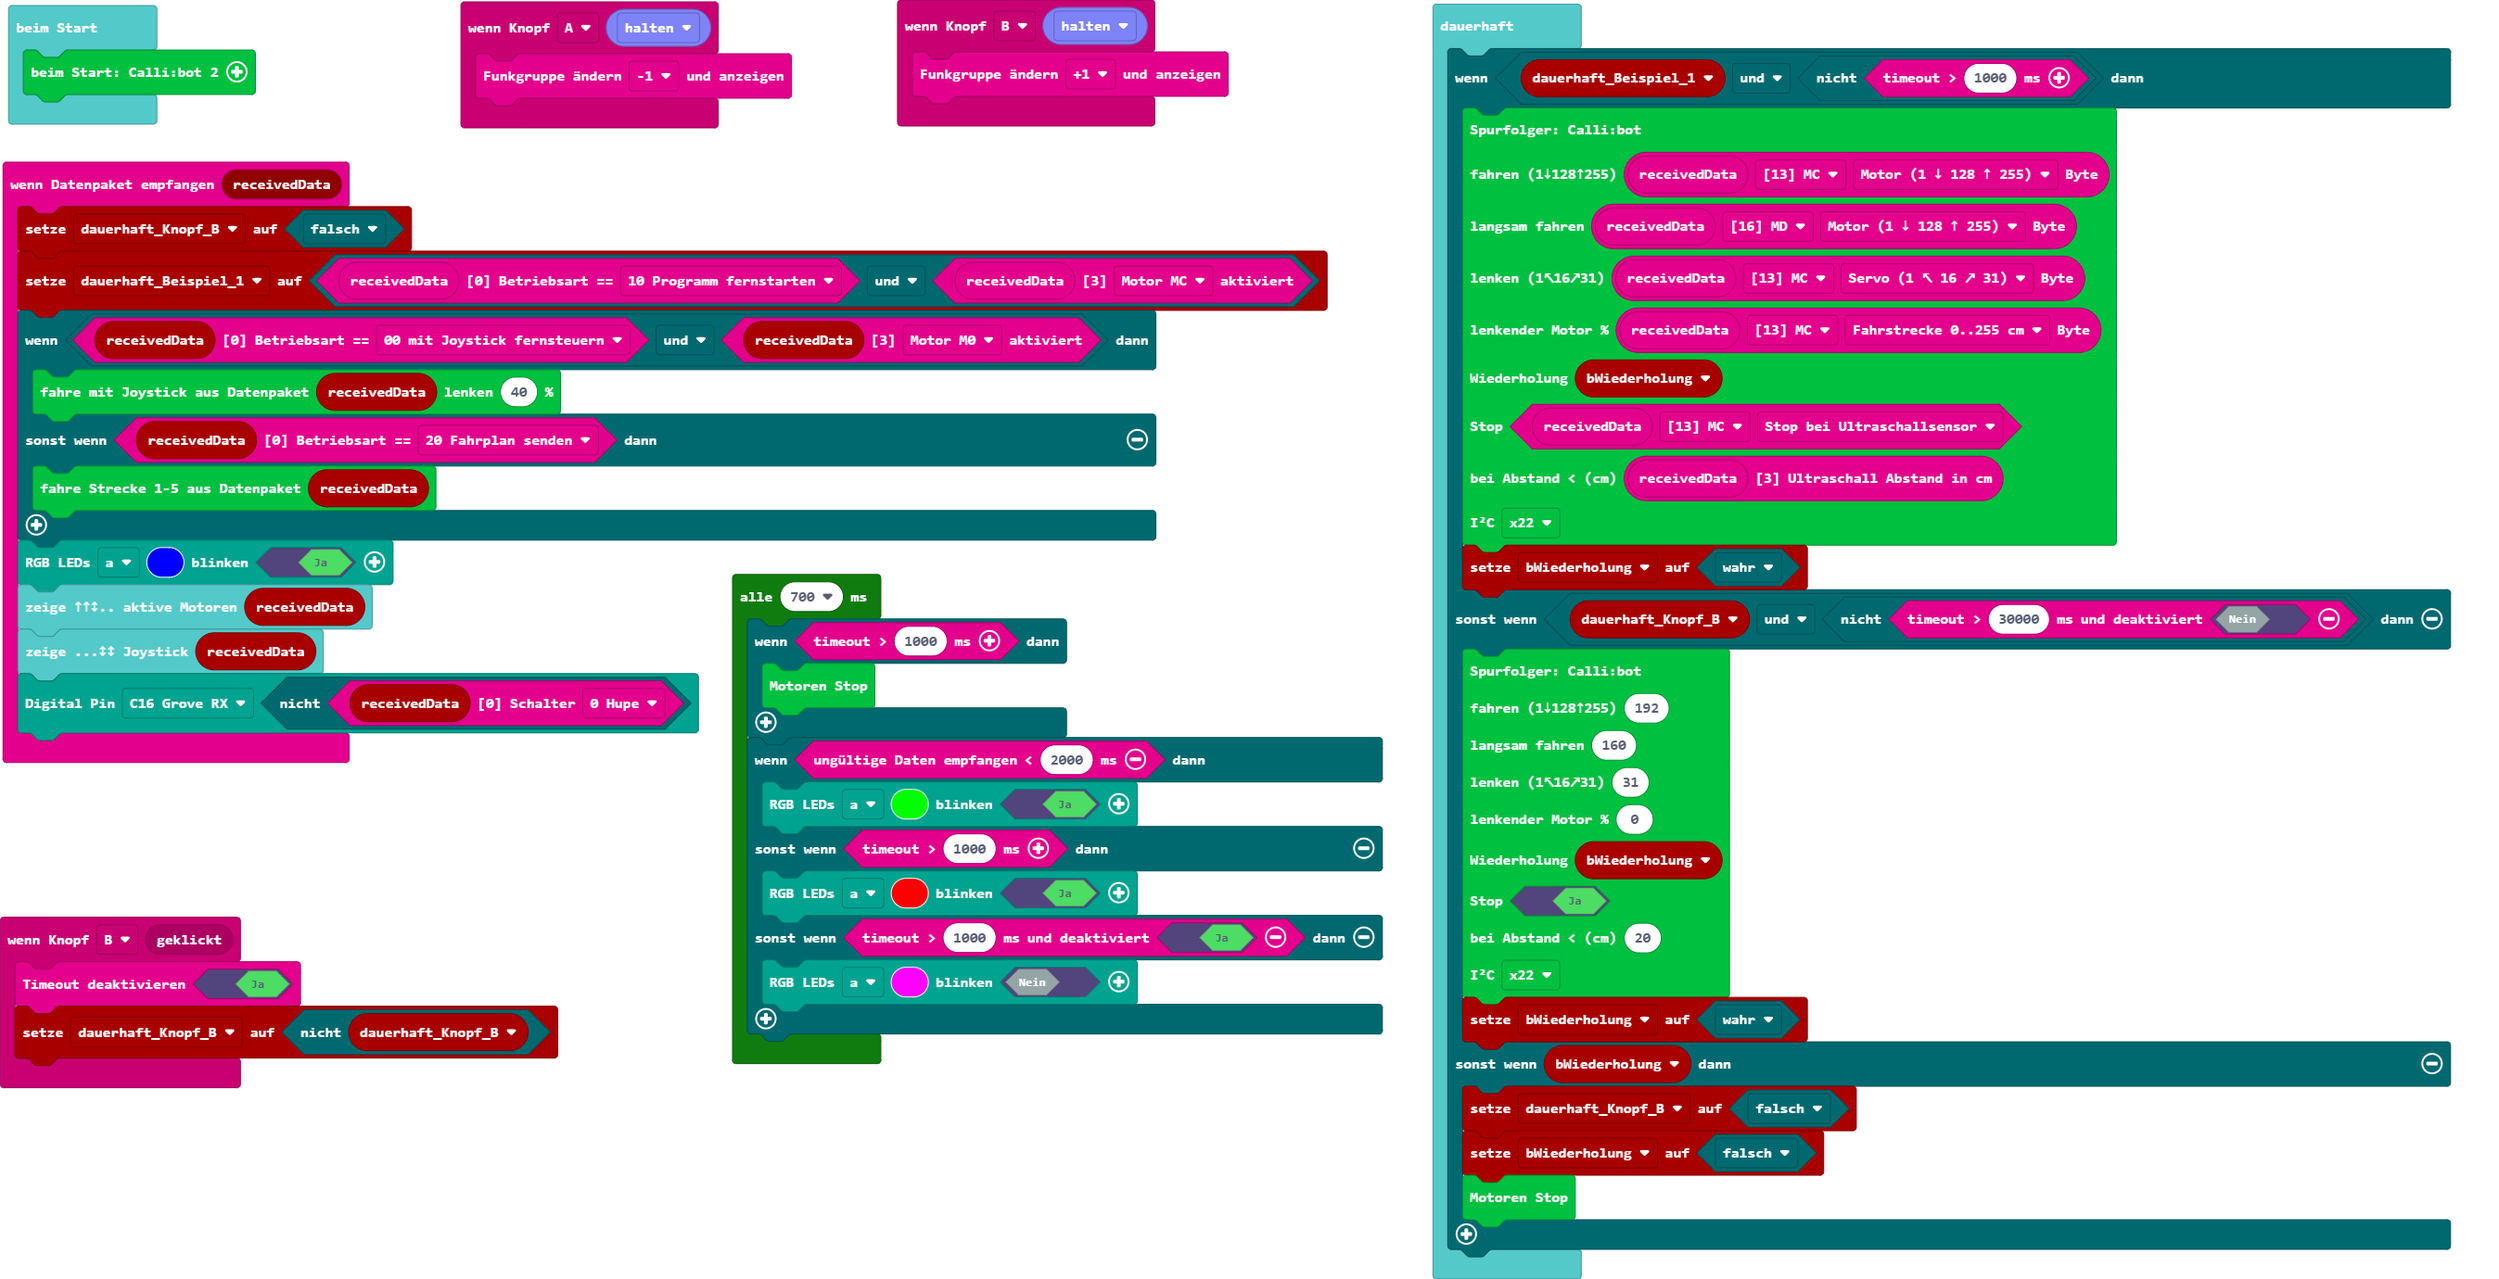
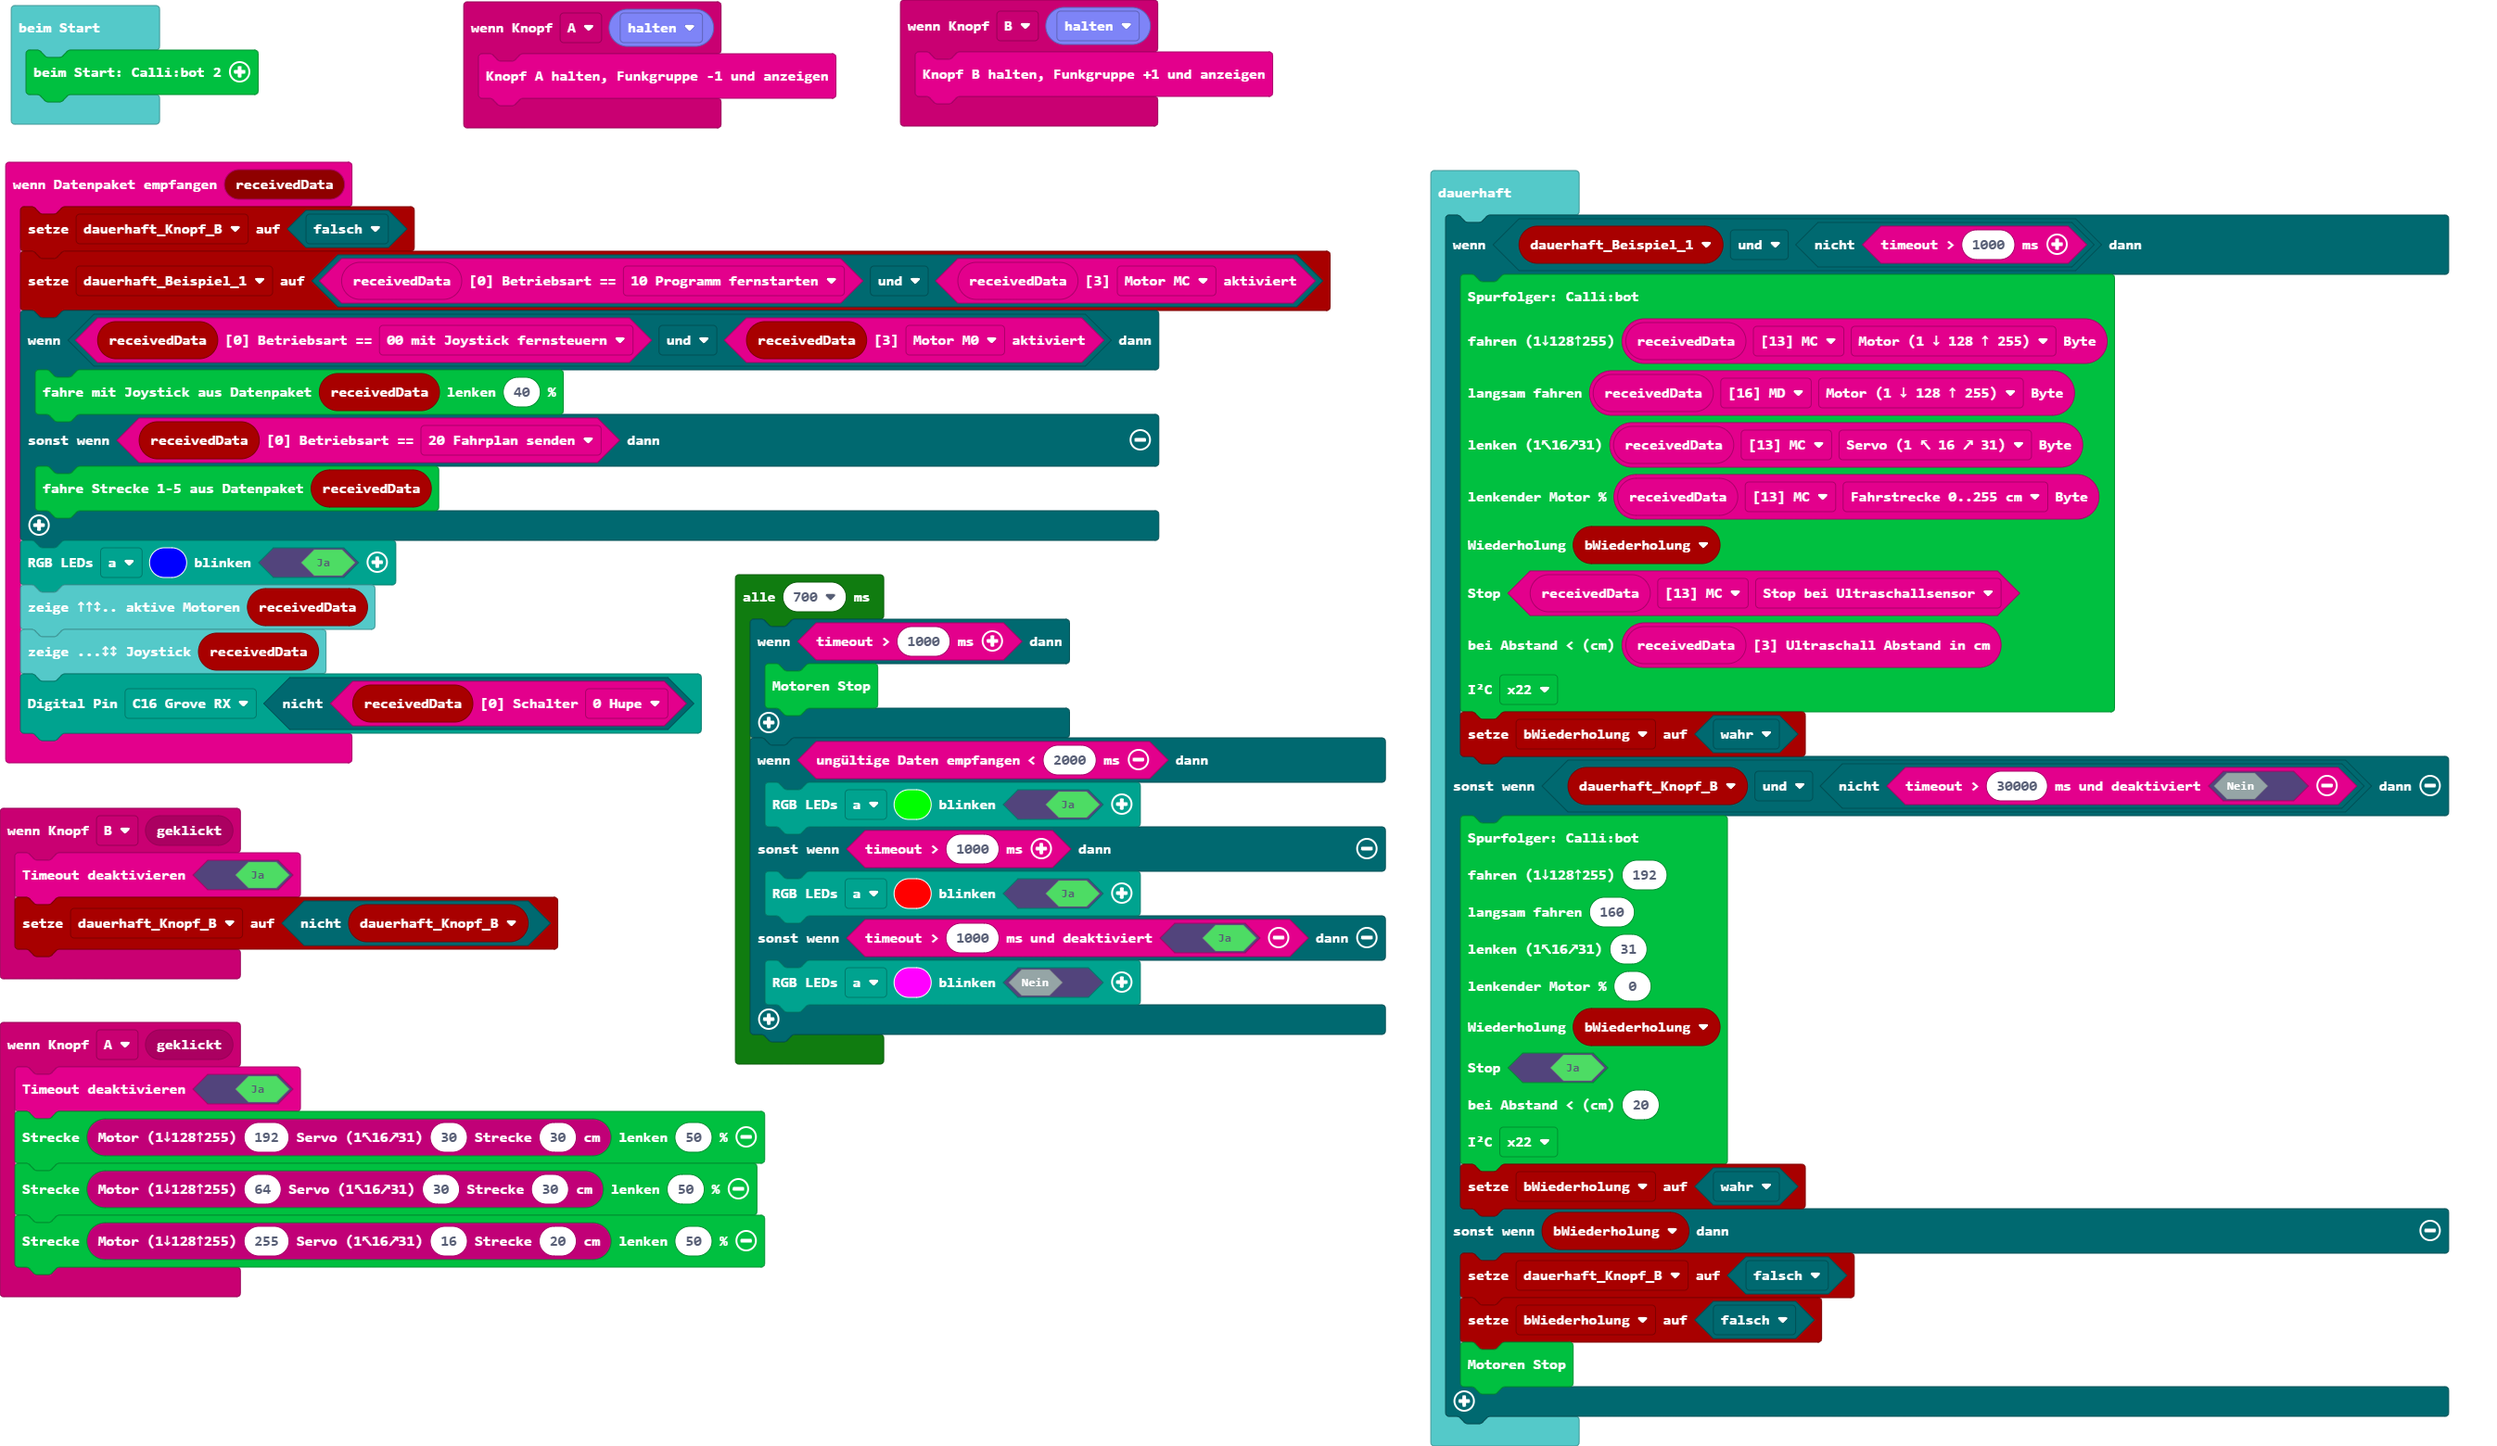
Aktualisiere pxt.json, main.blocks, main.ts

diff --git a/main.ts b/main.ts
@@ -1,9 +1,15 @@
+input.onButtonEvent(Button.A, input.buttonEventClick(), function () {
+    btf.set_timeoutDisbled(true)
+    cb2.fahreStrecke(btf.programmSchritt(192, 30, 30), 50)
+    cb2.fahreStrecke(btf.programmSchritt(64, 30, 30), 50)
+    cb2.fahreStrecke(btf.programmSchritt(255, 16, 20), 50)
+})
 input.onButtonEvent(Button.B, input.buttonEventClick(), function () {
     btf.set_timeoutDisbled(true)
     dauerhaft_Knopf_B = !(dauerhaft_Knopf_B)
 })
 input.onButtonEvent(Button.B, btf.buttonEventValue(ButtonEvent.Hold), function () {
-    btf.setFunkgruppeButton(btf.eFunkgruppeButton.plus)
+    btf.buttonBhold()
 })
 btf.onReceivedData(function (receivedData) {
     dauerhaft_Knopf_B = false
@@ -19,7 +25,7 @@ btf.onReceivedData(function (receivedData) {
     receiver.digitalWritePin(receiver.eDigitalPins.C16, !(btf.getSchalter(receivedData, btf.e0Schalter.b0)))
 })
 input.onButtonEvent(Button.A, btf.buttonEventValue(ButtonEvent.Hold), function () {
-    btf.setFunkgruppeButton(btf.eFunkgruppeButton.minus)
+    btf.buttonAhold()
 })
 let bWiederholung = false
 let dauerhaft_Beispiel_1 = false
